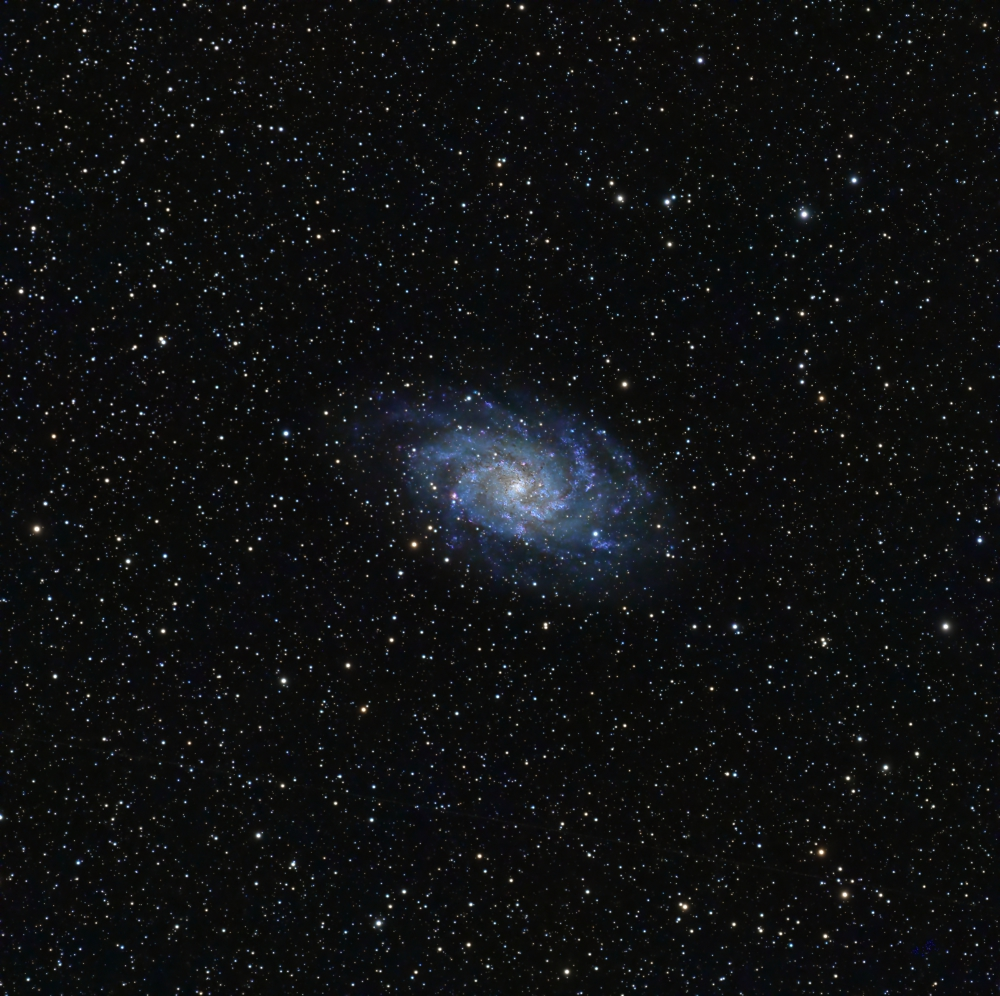
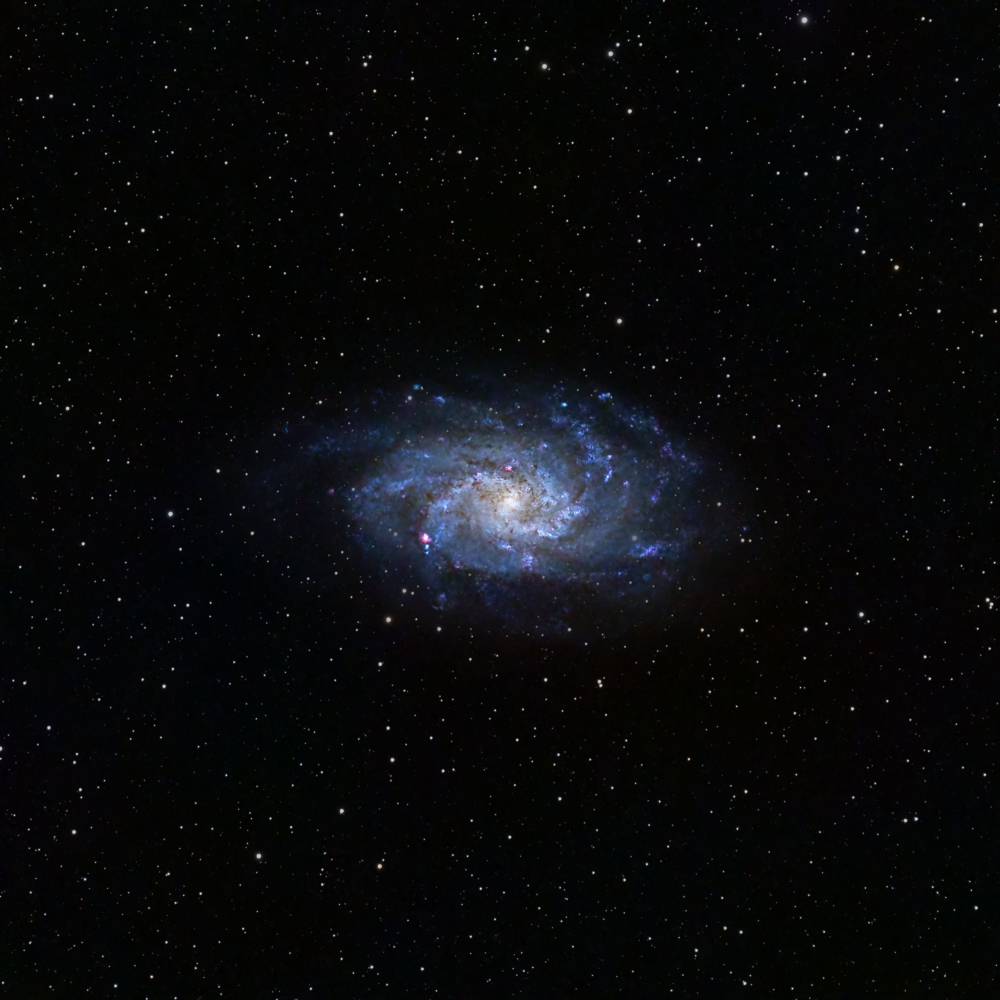
updated m33, this time with new data

diff --git a/index.html b/index.html
@@ -31,7 +31,7 @@
             <img class="preview" src="images/m33.jpg">
         </div>
         <div class="subContainer">
-            <p class="preview-text"><b><a href="images/m33_full.jpg">M33 - Triangulam Galaxy</a></b><br/><br/>Total Integration Time: <b>3.6 hours</b><br/>Camera: <b>ASI 533MC Pro</b><br/>Focal Length/Ratio: <b>200mm f/4</b><br/>Mount: <b>SkyWatcher EQ5 Pro</b><br/>Filters: <b>SVBony UVIR Cut</b><br/>Date: <b>8/19/2023</b></p>
+            <p class="preview-text"><b><a href="images/m33_full.jpg">M33 - Triangulam Galaxy</a></b><br/><br/>Total Integration Time: <b>7.3 hours</b><br/>Camera: <b>ASI 533MC Pro</b><br/>Focal Length/Ratio: <b>200mm f/4</b><br/>Mount: <b>SkyWatcher EQ5 Pro</b><br/>Filters: <b>SVBony UVIR Cut</b><br/>Date: <b>8/19/2023 - 9/10/2023</b></p>
         </div>
         <div class="imageContainer">
             <img class="preview" src="images/vdB139.jpg">

diff --git a/indexmobile.html b/indexmobile.html
@@ -28,7 +28,7 @@
             <img class="preview" src="images/m33.jpg">
         </div>
         <div class="subContainer">
-            <p class="preview-text"><b><a href="images/m33_full.jpg">M33 - Triangulam Galaxy</a></b><br/><br/>Total Integration Time: <b>3.6 hours</b><br/>Camera: <b>ASI 533MC Pro</b><br/>Focal Length/Ratio: <b>200mm f/4</b><br/>Mount: <b>SkyWatcher EQ5 Pro</b><br/>Filters: <b>SVBony UVIR Cut</b><br/>Date: <b>8/19/2023</b></p>
+            <p class="preview-text"><b><a href="images/m33_full.jpg">M33 - Triangulam Galaxy</a></b><br/><br/>Total Integration Time: <b>7.3 hours</b><br/>Camera: <b>ASI 533MC Pro</b><br/>Focal Length/Ratio: <b>200mm f/4</b><br/>Mount: <b>SkyWatcher EQ5 Pro</b><br/>Filters: <b>SVBony UVIR Cut</b><br/>Date: <b>8/19/2023 - 9/10/2023</b></p>
         </div>
         <div class="imageContainer">
             <img class="preview" src="images/vdB139.jpg">
